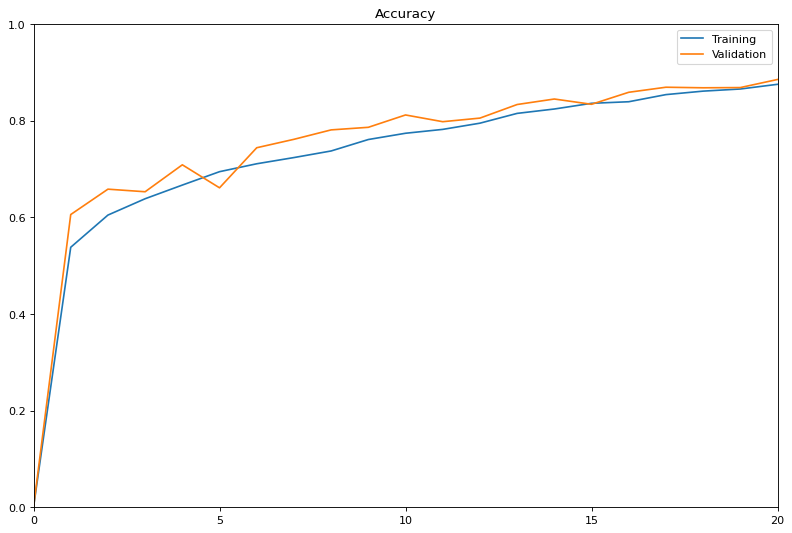
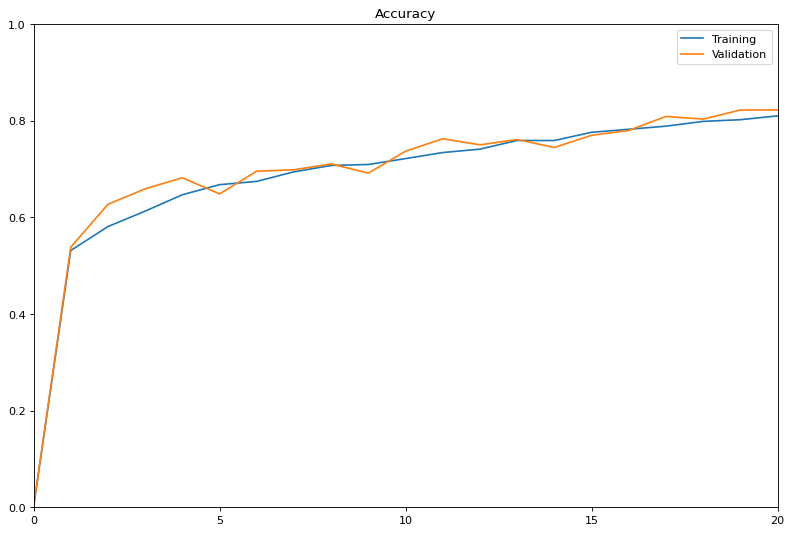
edit README, adding some comments to code

Changed region(s): [[0.0606, 0.1501, 1.0, 0.7505], [0.0303, 0.7505, 0.0606, 0.9006]]

diff --git a/recognition/brain-transformer/README.MD b/recognition/brain-transformer/README.MD
@@ -110,7 +110,7 @@ In an attempt to improve generalisability, tuning of the hyperparameters was exp
 The model performed no better than random guessing on the test set with an accuracy of 50%.
 
 ## Final Model
-Based on the empirical findings above, a final attempt at producing a model capable of generalising well on the test dataset was attempted.
+Based on the empirical findings above, a final attempt at producing a model capable of generalising well on the test dataset was attempted. No data augmentation was applied and the number of epochs was increased and the model seemed to be fitting well on the training and validation set with accuracy reaching just below 90% for both.
 |Parameter| Description |
 |---|---|
 |dim   |512|
@@ -128,5 +128,14 @@ Based on the empirical findings above, a final attempt at producing a model capa
 - Training Loss Plot
 ![](images/loss.png)
 
-Ultimately, the best performance that was achieved within this project failed to break past 61% test set accuracy. 
+Ultimately, the best performance that was achieved within this project failed to break past 61% test set accuracy. This is typically an indication of overfitting, but the validation set shows a steady increase during training. This leads to two possible conclusions:
+Firstly,  since the both the training and validation sets are drawn from the same pool, there exists data leakage within the two sets, hence the model is simply overfitting to the training set while producing good validation accuracy.
+Or secondly, there is very limited domain transfer between the training set and the test set so the model strugles to attain good performance on the test set. This is likely the more probably conclusion as the model is still capable of performing marginally better than random guessing.
 
+
+# References
+
+- https://pytorch.org/
+- https://numpy.org/
+- https://github.com/lucidrains/vit-pytorch 
+- https://ai.googleblog.com/2020/12/transformers-for-image-recognition-at.html
